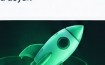
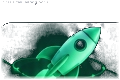
feat(design): complete redesign audit, hero layout, mockup assets, transparent rocket, and footer polish

diff --git a/src/components/Hero.tsx b/src/components/Hero.tsx
@@ -10,25 +10,25 @@ export const Hero: React.FC<HeroProps> = ({ onOpenModal }) => {
   const { t } = useLanguage();
 
   return (
-    <section className="relative min-h-screen min-h-[100dvh] w-full flex flex-col justify-center pt-24 pb-28 sm:pt-28 sm:pb-36 lg:pb-40 bg-[#07130e] overflow-hidden">
-      {/* 1. Full High-Res Master Background Filling 100% of the Screen */}
+    <section className="relative min-h-[90vh] lg:min-h-screen w-full flex flex-col justify-center pt-24 pb-20 sm:pt-28 sm:pb-28 lg:pb-32 bg-[#07130e] overflow-hidden">
+      {/* 1. Full High-Res Tashkent Skyline Background */}
       <div 
-        className="absolute inset-0 z-0 bg-no-repeat bg-cover bg-[center_right] sm:bg-[center_right_5%] pointer-events-none select-none"
+        className="absolute inset-0 z-0 bg-no-repeat bg-cover bg-[center_right_10%] pointer-events-none select-none opacity-90"
         style={{
-          backgroundImage: `url('/images/hero-bg-master.webp')`,
+          backgroundImage: `url('/images/hero-bg.webp')`,
         }}
       />
 
-      {/* 2. Cyber Gradient Vignettes for Crystal-Clear Text Legibility on the Left */}
-      <div className="absolute inset-0 z-0 bg-gradient-to-r from-[#07130e] via-[#07130e]/95 sm:via-[#07130e]/85 lg:via-[#07130e]/60 to-transparent w-full lg:w-3/5 pointer-events-none" />
-      <div className="absolute inset-0 z-0 bg-gradient-to-t from-[#07130e] via-transparent to-[#07130e]/60 pointer-events-none" />
-      <div className="absolute inset-0 z-0 bg-gradient-to-b from-[#07130e] via-transparent to-[#07130e] pointer-events-none" />
+      {/* 2. Cyber Gradient Vignettes for Crystal-Clear Text Legibility */}
+      <div className="absolute inset-0 z-0 bg-gradient-to-r from-[#07130e] via-[#07130e]/90 sm:via-[#07130e]/75 lg:via-[#07130e]/40 to-transparent w-full lg:w-3/5 pointer-events-none" />
+      <div className="absolute inset-0 z-0 bg-gradient-to-t from-[#07130e] via-transparent to-[#07130e]/50 pointer-events-none" />
+      <div className="absolute inset-0 z-0 bg-gradient-to-b from-[#07130e]/80 via-transparent to-[#07130e] pointer-events-none" />
 
       {/* 3. Subtle Ambient Neon Lighting */}
-      <div className="absolute top-1/3 right-1/4 -z-0 w-[500px] h-[500px] bg-emerald-500/15 rounded-full blur-[150px] pointer-events-none" />
+      <div className="absolute top-1/3 right-1/4 -z-0 w-96 h-96 bg-emerald-500/15 rounded-full blur-[120px] pointer-events-none" />
 
       <div className="max-w-6xl mx-auto px-4 sm:px-6 lg:px-8 relative z-10 w-full my-auto">
-        <div className="grid grid-cols-1 lg:grid-cols-12 gap-10 lg:gap-8 items-center min-h-[380px] sm:min-h-[460px]">
+        <div className="grid grid-cols-1 lg:grid-cols-12 gap-8 lg:gap-8 items-center min-h-[380px] sm:min-h-[460px]">
           
           {/* Left Text Column (7 cols) */}
           <div className="lg:col-span-7 space-y-6 text-center lg:text-left">
@@ -39,8 +39,8 @@ export const Hero: React.FC<HeroProps> = ({ onOpenModal }) => {
               <span className="font-medium text-slate-300">{t.hero.badge}</span>
             </div>
 
-            {/* Headline matching image */}
-            <h1 className="text-3xl sm:text-5xl lg:text-[54px] font-outfit font-black tracking-tight text-white leading-[1.12]">
+            {/* Headline matching mockup */}
+            <h1 className="text-3xl sm:text-5xl lg:text-[46px] xl:text-[52px] font-outfit font-black tracking-tight text-white leading-[1.14] max-w-xl mx-auto lg:mx-0">
               <span className="text-[#00e575] drop-shadow-[0_0_25px_rgba(0,229,117,0.35)]">
                 {t.hero.titleHighlight}
               </span>
@@ -73,19 +73,18 @@ export const Hero: React.FC<HeroProps> = ({ onOpenModal }) => {
               </button>
             </div>
 
-            {/* Mobile Devices Illustration (Visible only on smaller screens where background is cropped) */}
-            <div className="block lg:hidden pt-6">
-              <img
-                src="/images/hero-devices-mobile.webp"
-                alt="ECOS Ekosistema"
-                className="w-full max-w-sm mx-auto drop-shadow-[0_15px_30px_rgba(0,229,117,0.25)] select-none pointer-events-none"
-              />
-            </div>
-
           </div>
 
-          {/* Right Spacer Column (5 cols) on desktop: lets the background 3D laptop & TV tower shine through naturally */}
-          <div className="hidden lg:block lg:col-span-5 h-full min-h-[460px]" />
+          {/* Right Column (5 cols): 3D Laptop, Smartphone & Neon Orbit Platform */}
+          <div className="lg:col-span-5 flex items-center justify-center pt-6 lg:pt-0">
+            <div className="relative w-full max-w-md lg:max-w-none flex items-center justify-center">
+              <img
+                src="/images/hero-devices-clean.png"
+                alt="ECOS Ekosistema Mahsulotlari"
+                className="w-full h-auto object-contain drop-shadow-[0_20px_50px_rgba(0,214,108,0.3)] select-none pointer-events-none transform lg:scale-105 transition-transform duration-500 hover:scale-110"
+              />
+            </div>
+          </div>
 
         </div>
       </div>

diff --git a/src/components/TestimonialsSection.tsx b/src/components/TestimonialsSection.tsx
@@ -52,22 +52,38 @@ export const TestimonialsSection: React.FC = () => {
               {t.testimonials.description}
             </p>
 
-            {/* Slider Navigation Buttons */}
-            <div className="flex items-center justify-center lg:justify-start gap-2 pt-3">
-              <button
-                onClick={handlePrev}
-                className="w-10 h-10 rounded-full border border-slate-300 hover:border-emerald-600 hover:text-emerald-700 bg-white text-slate-700 flex items-center justify-center transition-colors cursor-pointer shadow-2xs"
-                aria-label="Oldingi fikr"
-              >
-                <ChevronLeft className="w-5 h-5" />
-              </button>
-              <button
-                onClick={handleNext}
-                className="w-10 h-10 rounded-full border border-slate-300 hover:border-emerald-600 hover:text-emerald-700 bg-white text-slate-700 flex items-center justify-center transition-colors cursor-pointer shadow-2xs"
-                aria-label="Keyingi fikr"
-              >
-                <ChevronRight className="w-5 h-5" />
-              </button>
+            {/* Slider Navigation Buttons & Dots */}
+            <div className="flex items-center justify-center lg:justify-start gap-3 pt-3">
+              <div className="flex items-center gap-2">
+                <button
+                  onClick={handlePrev}
+                  className="w-10 h-10 rounded-full border border-slate-300 hover:border-emerald-600 hover:text-emerald-700 bg-white text-slate-700 flex items-center justify-center transition-colors cursor-pointer shadow-2xs"
+                  aria-label="Oldingi fikr"
+                >
+                  <ChevronLeft className="w-5 h-5" />
+                </button>
+                <button
+                  onClick={handleNext}
+                  className="w-10 h-10 rounded-full border border-slate-300 hover:border-emerald-600 hover:text-emerald-700 bg-white text-slate-700 flex items-center justify-center transition-colors cursor-pointer shadow-2xs"
+                  aria-label="Keyingi fikr"
+                >
+                  <ChevronRight className="w-5 h-5" />
+                </button>
+              </div>
+
+              {/* Slide Counter / Indicators */}
+              <div className="flex items-center gap-1.5 pl-2">
+                {testimonialsList.map((_, i) => (
+                  <button
+                    key={i}
+                    onClick={() => setCurrentIndex(i)}
+                    className={`h-2 rounded-full transition-all duration-300 ${
+                      currentIndex === i ? 'w-6 bg-[#00d66c]' : 'w-2 bg-slate-300 hover:bg-slate-400'
+                    }`}
+                    aria-label={`Slide ${i + 1}`}
+                  />
+                ))}
+              </div>
             </div>
           </div>
 

diff --git a/src/components/Footer.tsx b/src/components/Footer.tsx
@@ -20,7 +20,7 @@ export const Footer: React.FC<FooterProps> = ({ onOpenModal }) => {
 
   return (
     <footer className="bg-[#060B08] text-gray-400 py-12 border-t border-emerald-950/40">
-      <div className="max-w-7xl mx-auto px-4 sm:px-6 lg:px-8">
+      <div className="max-w-6xl mx-auto px-4 sm:px-6 lg:px-8">
         <div className="flex flex-col lg:flex-row items-center justify-between gap-8">
           
           {/* Logo & Tagline */}
@@ -70,6 +70,12 @@ export const Footer: React.FC<FooterProps> = ({ onOpenModal }) => {
               onClick={onOpenModal}
               className="hover:text-emerald-400 transition-colors cursor-pointer"
             >
+              {t.nav.pricing}
+            </button>
+            <button
+              onClick={onOpenModal}
+              className="hover:text-emerald-400 transition-colors cursor-pointer"
+            >
               {t.nav.contact}
             </button>
           </nav>
@@ -78,7 +84,7 @@ export const Footer: React.FC<FooterProps> = ({ onOpenModal }) => {
           <div className="flex flex-col sm:flex-row items-center gap-6">
             <div className="flex items-center gap-3">
               <a
-                href="https://t.me/khorowiy_malchik"
+                href="https://t.me/ecos_uz"
                 target="_blank"
                 rel="noopener noreferrer"
                 className="w-8 h-8 rounded-full bg-white/10 hover:bg-emerald-500/20 text-gray-300 hover:text-emerald-400 transition-all flex items-center justify-center border border-white/10"

diff --git a/src/i18n/translations.ts b/src/i18n/translations.ts
@@ -133,7 +133,7 @@ export const translations: Record<Language, Translations> = {
       items: [
         {
           name: "EcosHR",
-          desc: "Xodimlar nazorati va attendance",
+          desc: "Xodimlar nazorati va davomat",
           img: "/images/mockup-hr.png",
           icon: "users",
         },
@@ -145,7 +145,7 @@ export const translations: Record<Language, Translations> = {
         },
         {
           name: "EcosCRM",
-          desc: "Mijozlar bilan yanada yaqinroq bo'ling.",
+          desc: "Mijozlar bilan yanada yaqinroq bo'ling",
           img: "/images/mockup-crm.png",
           icon: "chart",
         },
@@ -175,7 +175,7 @@ export const translations: Record<Language, Translations> = {
     },
     footer: {
       slogan: "Innovatsiya. Imkoniyat. Rivojlanish.",
-      rights: "© 2026 ECOS. Barcha huquqlar himoyalangan.",
+      rights: "Barcha huquqlar himoyalangan.",
     },
     contactModal: {
       title: "ECOS bilan bog'lanish",
@@ -279,7 +279,7 @@ export const translations: Record<Language, Translations> = {
     },
     footer: {
       slogan: "Инновация. Возможность. Развитие.",
-      rights: "© 2026 ECOS. Все права защищены.",
+      rights: "Все права защищены.",
     },
     contactModal: {
       title: "Связаться с ECOS",

diff --git a/src/components/ProductsShowcase.tsx b/src/components/ProductsShowcase.tsx
@@ -64,12 +64,11 @@ export const ProductsShowcase: React.FC<ProductsShowcaseProps> = ({ onOpenModal 
                     className="bg-white rounded-2xl border border-slate-200/90 overflow-hidden shadow-xs hover:shadow-lg hover:border-emerald-300 transition-all duration-200 cursor-pointer group flex flex-col"
                   >
                     {/* Mockup Preview Area */}
-                    <div className="h-32 sm:h-28 bg-[#091510] flex items-center justify-center p-3 relative overflow-hidden">
-                      <div className="absolute inset-0 bg-emerald-500/10 filter blur-xl" />
+                    <div className="w-full bg-[#07130e] overflow-hidden flex items-center justify-center relative">
                       <img
                         src={item.img}
                         alt={item.name}
-                        className="max-h-full max-w-full object-contain relative z-10 transition-transform duration-300 group-hover:scale-105"
+                        className="w-full h-auto object-cover transition-transform duration-300 group-hover:scale-105"
                       />
                     </div>
 

diff --git a/src/components/Preloader.tsx b/src/components/Preloader.tsx
@@ -6,13 +6,13 @@ export const Preloader: React.FC = () => {
   const [fadeOut, setFadeOut] = useState(false);
 
   useEffect(() => {
-    const timer1 = setTimeout(() => setProgress(45), 100);
-    const timer2 = setTimeout(() => setProgress(85), 300);
+    const timer1 = setTimeout(() => setProgress(50), 60);
+    const timer2 = setTimeout(() => setProgress(90), 160);
     const timer3 = setTimeout(() => {
       setProgress(100);
       setFadeOut(true);
-    }, 600);
-    const timer4 = setTimeout(() => setLoading(false), 900);
+    }, 320);
+    const timer4 = setTimeout(() => setLoading(false), 520);
 
     return () => {
       clearTimeout(timer1);

diff --git a/src/components/StatsBanner.tsx b/src/components/StatsBanner.tsx
@@ -23,8 +23,8 @@ export const StatsBanner: React.FC = () => {
               return (
                 <div
                   key={idx}
-                  className={`flex items-center gap-3.5 ${
-                    idx !== 0 ? 'pt-4 md:pt-0 md:pl-6 lg:pl-8' : ''
+                  className={`flex items-center justify-start md:justify-center gap-3.5 ${
+                    idx !== 0 ? 'pt-4 md:pt-0 md:pl-4' : ''
                   }`}
                 >
                   <div className="w-11 h-11 rounded-xl bg-emerald-900/50 text-[#00d66c] flex items-center justify-center shrink-0 border border-emerald-800/50">

diff --git a/src/components/WhyChooseUs.tsx b/src/components/WhyChooseUs.tsx
@@ -27,7 +27,8 @@ export const WhyChooseUs: React.FC<WhyChooseUsProps> = ({ onOpenModal }) => {
   };
 
   return (
-    <section id="afzalliklar" className="pt-16 sm:pt-24 lg:pt-28 pb-16 sm:pb-24 bg-[#f8faf9] border-b border-slate-100">
+    <section id="afzalliklar" className="pt-16 sm:pt-24 lg:pt-28 pb-16 sm:pb-24 bg-[#f8faf9] border-b border-slate-100 relative">
+      <div id="biz-haqimizda" className="absolute -top-20" />
       <div className="max-w-6xl mx-auto px-4 sm:px-6 lg:px-8">
         <div className="grid grid-cols-1 lg:grid-cols-12 gap-10 lg:gap-12 items-center">
           

diff --git a/src/components/CtaBanner.tsx b/src/components/CtaBanner.tsx
@@ -35,7 +35,7 @@ export const CtaBanner: React.FC<CtaBannerProps> = ({ onOpenModal }) => {
               <img
                 src="/images/rocket.png"
                 alt="ECOS Rocket"
-                className="w-24 sm:w-28 h-auto object-contain drop-shadow-[0_10px_25px_rgba(0,214,108,0.4)] transform -rotate-6 select-none shrink-0"
+                className="w-24 sm:w-28 h-auto object-contain drop-shadow-[0_10px_25px_rgba(0,214,108,0.4)] select-none shrink-0"
               />
 
               <div className="space-y-1.5">

diff --git a/src/components/Navbar.tsx b/src/components/Navbar.tsx
@@ -46,7 +46,7 @@ export const Navbar: React.FC<NavbarProps> = ({ onOpenModal }) => {
     setActiveTab(id);
     setMobileMenuOpen(false);
 
-    if (id === 'contact') {
+    if (id === 'contact' || id === 'pricing') {
       onOpenModal();
       return;
     }
